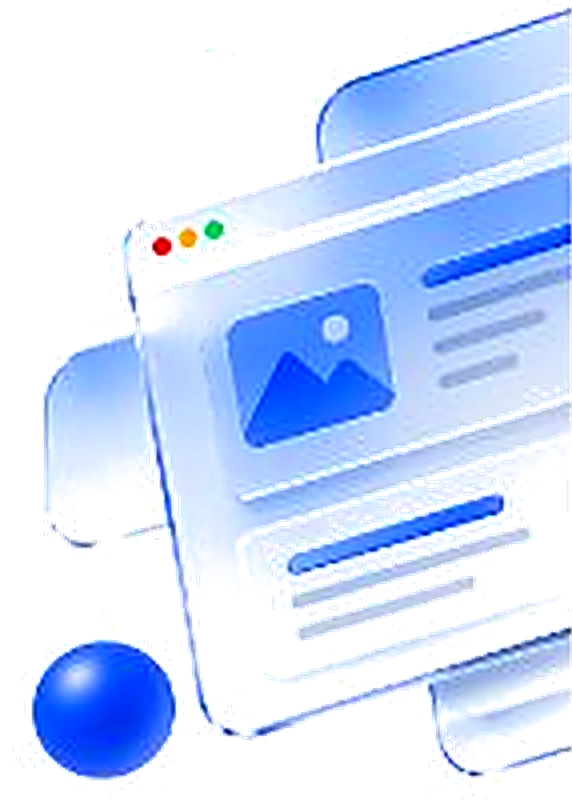
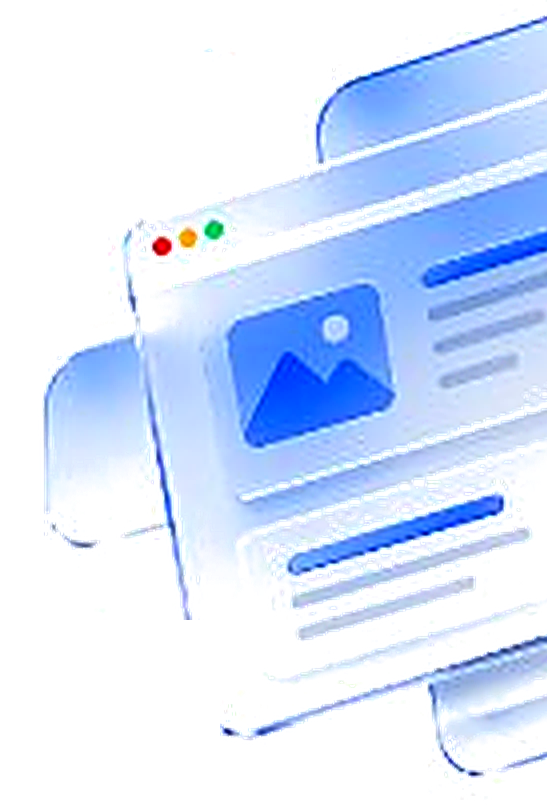
fix: remove dark blue circles from hero side graphics and position strictly flush against screen edges with zero gap

diff --git a/src/components/Hero.tsx b/src/components/Hero.tsx
@@ -16,32 +16,32 @@ export default function Hero({ onStartProject }: HeroProps) {
       {/* Background ambient lighting */}
       <div className="absolute top-1/3 left-1/2 -translate-x-1/2 -translate-y-1/2 w-[900px] h-[520px] bg-blue-400/10 rounded-full blur-3xl pointer-events-none -z-10" />
 
-      {/* Left 3D Chrome Torus Floating Artwork (Enhanced high quality, flush to left edge) */}
-      <div className="hidden lg:block absolute left-0 top-6 xl:top-8 w-[140px] xl:w-[200px] 2xl:w-[240px] pointer-events-auto select-none z-10">
-        <div className="animate-float origin-left transition-all duration-700 ease-out hover:scale-105 cursor-pointer">
+      {/* Left 3D Chrome Torus Floating Artwork (No blue circle, zero gap flush to leftmost screen edge) */}
+      <div className="hidden lg:block absolute left-0 top-6 xl:top-8 w-[160px] xl:w-[220px] 2xl:w-[260px] pointer-events-auto select-none z-10">
+        <div className="animate-float-vertical cursor-pointer">
           <Image
             src="/images/side_hero_left.png"
             alt="Abstract 3D Chrome Torus Artwork"
-            width={422}
+            width={402}
             height={812}
             priority
             quality={100}
-            className="w-full h-auto object-contain object-left drop-shadow-md"
+            className="w-full h-auto object-contain object-left block"
           />
         </div>
       </div>
 
-      {/* Right 3D Glassmorphic Interface Floating Artwork (Enhanced high quality, flush to right edge) */}
-      <div className="hidden lg:block absolute right-0 top-6 xl:top-8 w-[150px] xl:w-[220px] 2xl:w-[260px] pointer-events-auto select-none z-10">
-        <div className="animate-float-reverse origin-right transition-all duration-700 ease-out hover:scale-105 cursor-pointer">
+      {/* Right 3D Glassmorphic Interface Floating Artwork (No blue circle, zero gap flush to rightmost screen edge) */}
+      <div className="hidden lg:block absolute right-0 top-6 xl:top-8 w-[180px] xl:w-[240px] 2xl:w-[280px] pointer-events-auto select-none z-10">
+        <div className="animate-float-vertical-reverse cursor-pointer">
           <Image
             src="/images/side_hero_right.png"
             alt="Abstract 3D Glassmorphic Interface Artwork"
-            width={572}
+            width={547}
             height={812}
             priority
             quality={100}
-            className="w-full h-auto object-contain object-right drop-shadow-md"
+            className="w-full h-auto object-contain object-right block"
           />
         </div>
       </div>

diff --git a/src/app/globals.css b/src/app/globals.css
@@ -51,6 +51,32 @@ body {
   animation: float-slow 8.5s ease-in-out infinite;
 }
 
+@keyframes float-vertical {
+  0%, 100% {
+    transform: translateY(0px);
+  }
+  50% {
+    transform: translateY(-12px);
+  }
+}
+
+@keyframes float-vertical-reverse {
+  0%, 100% {
+    transform: translateY(0px);
+  }
+  50% {
+    transform: translateY(12px);
+  }
+}
+
+.animate-float-vertical {
+  animation: float-vertical 6s ease-in-out infinite;
+}
+
+.animate-float-vertical-reverse {
+  animation: float-vertical-reverse 7s ease-in-out infinite;
+}
+
 @keyframes marquee {
   0% {
     transform: translateX(0%);
